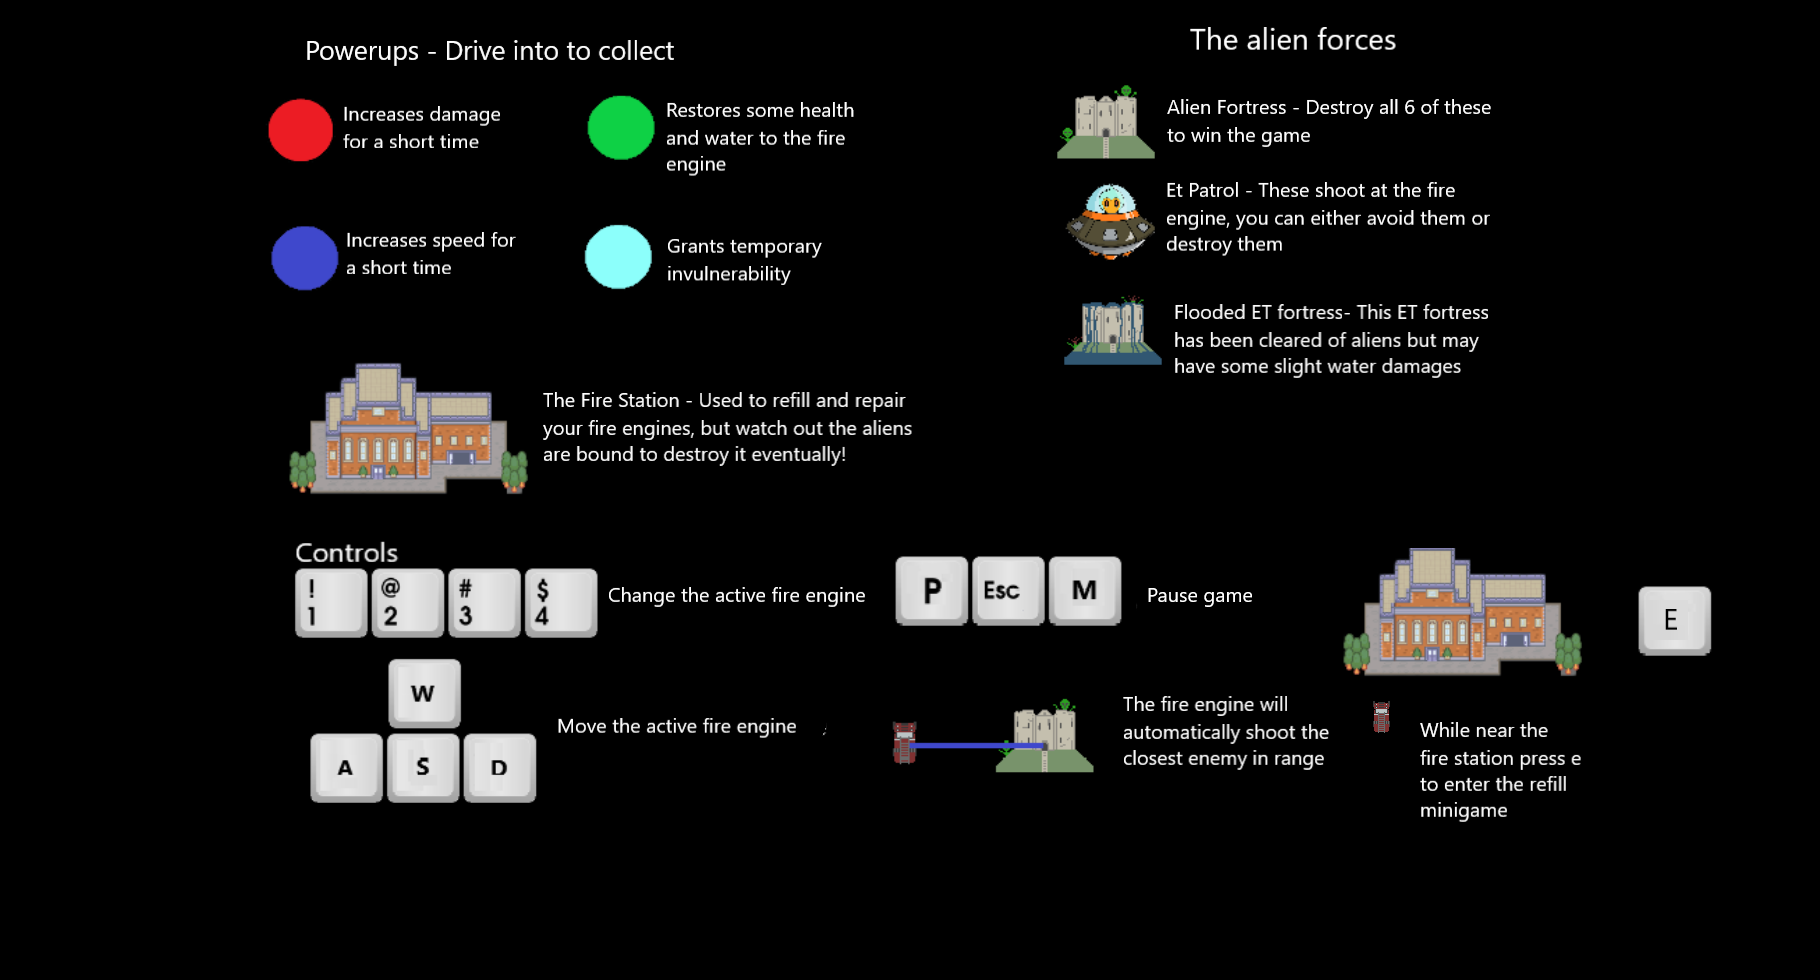
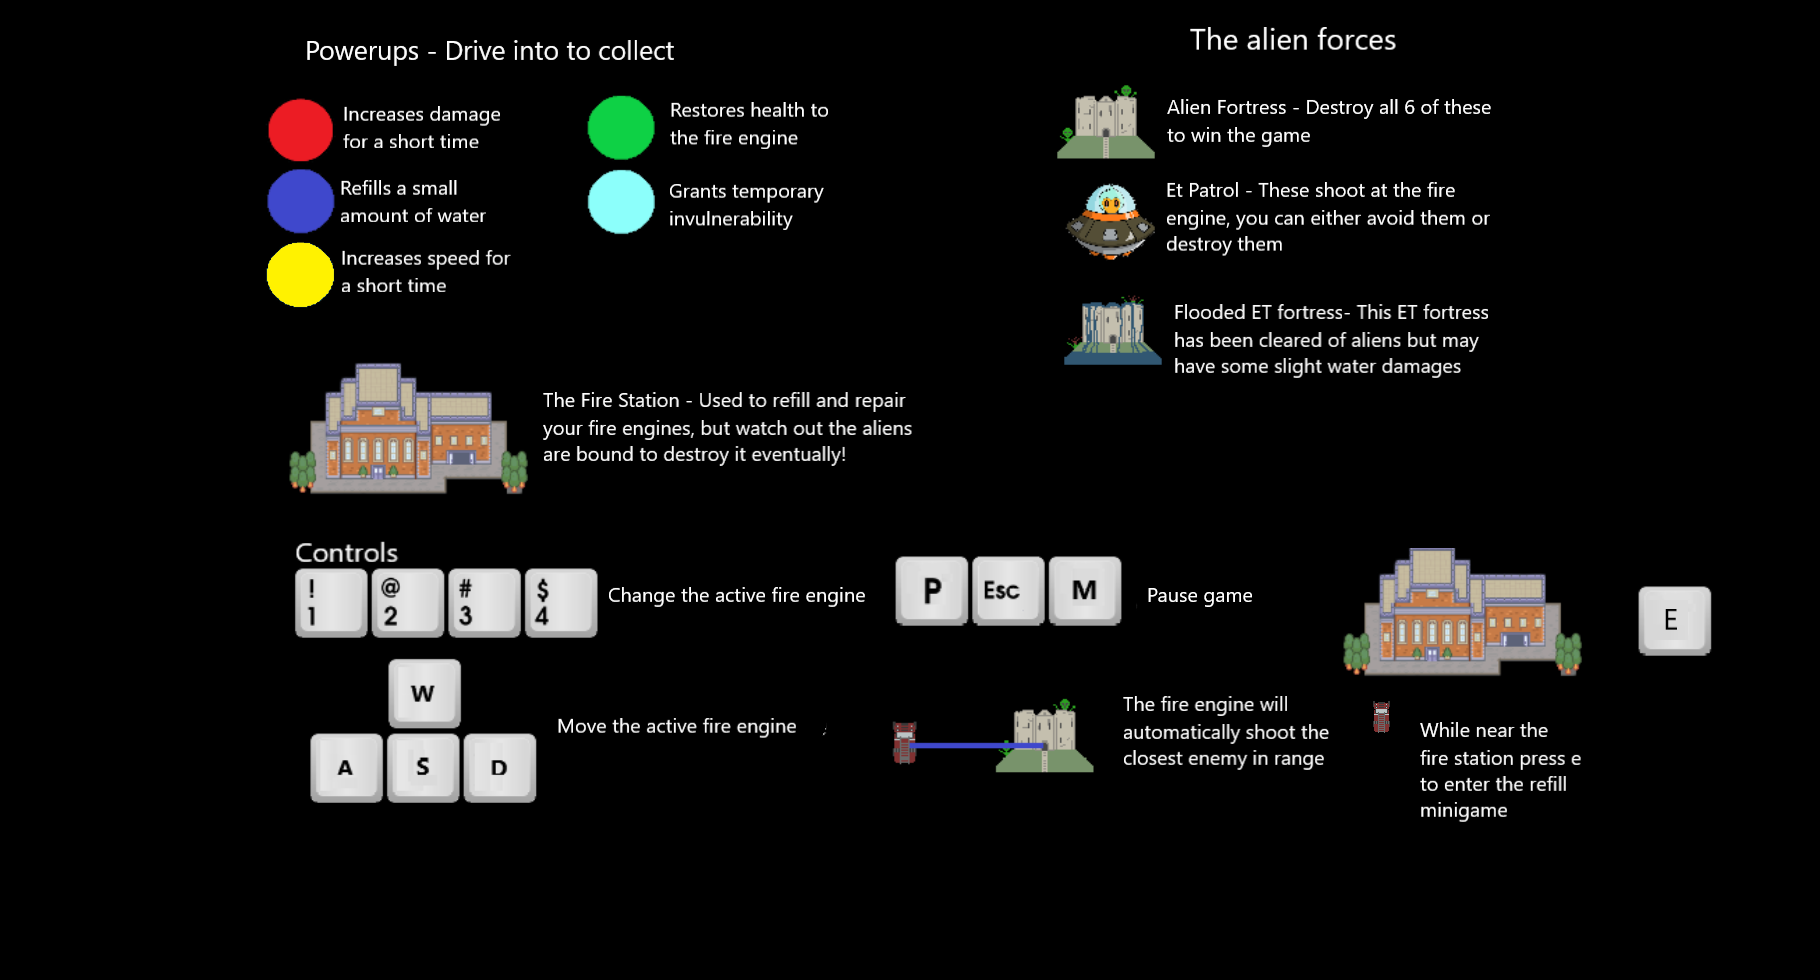
Split refill and repair powerups

Changed region(s): [[0.3077, 0.0918, 0.4615, 0.3061], [0.1231, 0.1531, 0.2769, 0.3367]]

diff --git a/core/src/com/dicycat/kroy/GameTextures.java b/core/src/com/dicycat/kroy/GameTextures.java
@@ -1,6 +1,7 @@
 package com.dicycat.kroy;
 
 import com.badlogic.gdx.graphics.Texture;
+import org.w3c.dom.Text;
 
 import java.util.ArrayList;
 import java.util.Arrays;
@@ -18,7 +19,7 @@ public class GameTextures {
 	// TRUCK_SELECT_CHANGE_1 - START OF MODIFICATION - NP STUDIOS - LUCY IVATT----
 	// Changed truck texture to truck0, truck1, truck2, truck3 as all the different textures will be used with our
 	// new selection method and defined the array list which will be used to store them
-	private Texture truck0, truck1, truck2, truck3, ufo, bullet, fireStation, fireStationDead, shieldtruck0, shieldtruck1, shieldtruck2,shieldtruck3, pup0, pup1, pup2, pup3;
+	private Texture truck0, truck1, truck2, truck3, ufo, bullet, fireStation, fireStationDead, shieldtruck0, shieldtruck1, shieldtruck2,shieldtruck3, pup0, pup1, pup2, pup3, pup4;
 	private ArrayList<Texture> trucks;
 	//ASSESSMENT 4 START
 	private ArrayList<Texture> shieldTrucksList;
@@ -40,7 +41,7 @@ public class GameTextures {
 	private String[] truckAddress = {"fireTruck1.png", "fireTruck2.png", "fireTruck3.png", "fireTruck4.png"};
 	//ASSESSMENT 4 START
 	private String[] shieldTrucks = {"fireTruck1shield.png","fireTruck2shield.png","fireTruck3shield.png","fireTruck4shield.png"};
-	private String[] powerups = {"speed.png", "damage.png", "shield.png","refill.png"};
+	private String[] powerups = {"speed.png", "damage.png", "shield.png","refill.png","repair.png"};
 	//ASSESSMENT 4 END
 
 	public GameTextures() {
@@ -63,7 +64,8 @@ public class GameTextures {
 		pup1 = new Texture(powerups[1]);
 		pup2 = new Texture(powerups[2]);
 		pup3 = new Texture(powerups[3]);
-		pupsList = new ArrayList<>(Arrays.asList(pup0, pup1, pup2, pup3));
+		pup4 = new Texture(powerups[4]);
+		pupsList = new ArrayList<>(Arrays.asList(pup0, pup1, pup2, pup3, pup4));
 		ufo = new Texture("ufo.png");
 		bullet = new Texture("bullet.png");
 		fireStation = new Texture("FireStationTemp.png");

diff --git a/core/src/com/dicycat/kroy/screens/GameScreen.java b/core/src/com/dicycat/kroy/screens/GameScreen.java
@@ -562,7 +562,7 @@ public class GameScreen implements Screen{
 				fileWriter.write("\n");
 				fileWriter.close();
 				for (FireTruck sObject : players) {
-						sObject.saveEntity(saveFile);
+					sObject.saveEntity(saveFile);
 				}
 				for (Fortress sObject : fortresses) {
 					sObject.saveEntity(saveFile);
@@ -626,8 +626,8 @@ public class GameScreen implements Screen{
 		lineNo++;
 		float y = parseFloat(saveInfo.get(lineNo));
 		lineNo++;
-		//Bullet bullet = new Bullet(new Vector2 (x,y), new Vector2 (xvel,yvel),  speed, (maxdist - traveldist), bulletDamage);
-		//Kroy.mainGameScreen.addGameObject(bullet);
+		Bullet bullet = new Bullet(new Vector2 (x,y), new Vector2 (xvel,yvel),  speed, (maxdist - traveldist), bulletDamage);
+		Kroy.mainGameScreen.addGameObject(bullet);
 		return lineNo;
 	}
 

diff --git a/core/src/com/dicycat/kroy/entities/Powerups.java b/core/src/com/dicycat/kroy/entities/Powerups.java
@@ -43,7 +43,7 @@ public class Powerups extends Entity{
     //Sets the type of power up
     private void setType() {
         Random r = new Random();
-        typeNumber = r.nextInt(4);
+        typeNumber = r.nextInt(5);
         if (!exists) {
             defineType(typeNumber);
         }
@@ -67,6 +67,10 @@ public class Powerups extends Entity{
             case 3:
                 this.exists = true;
                 this.type = "refill";
+                break;
+            case 4:
+                this.exists = true;
+                this.type = "repair";
                 break;
         }
         this.setTexture(Kroy.mainGameScreen.textures.getPowerup(typeNumber));

diff --git a/core/src/com/dicycat/kroy/entities/FireTruck.java b/core/src/com/dicycat/kroy/entities/FireTruck.java
@@ -358,7 +358,9 @@ public class FireTruck extends Entity{
 				break;
 			case "refill":
 				this.currentWater += this.maxWater * 0.2;
-				this.healthPoints += this.maxHealthPoints * 0.2;
+				break;
+			case "repair":
+				this.healthPoints += this.maxHealthPoints * 0.5;
 				break;
 		}
 	}
